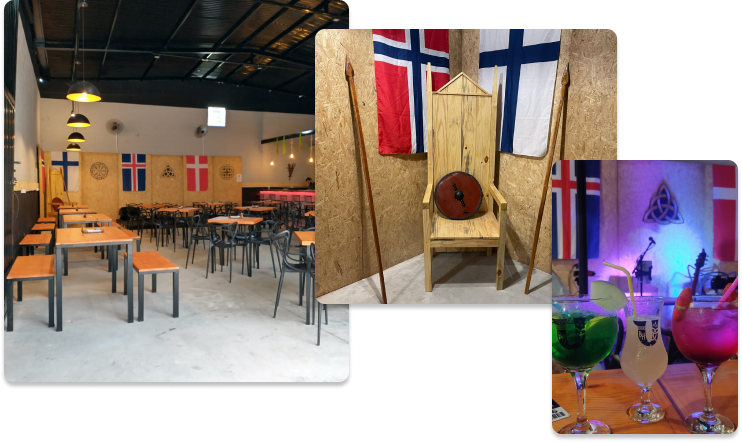
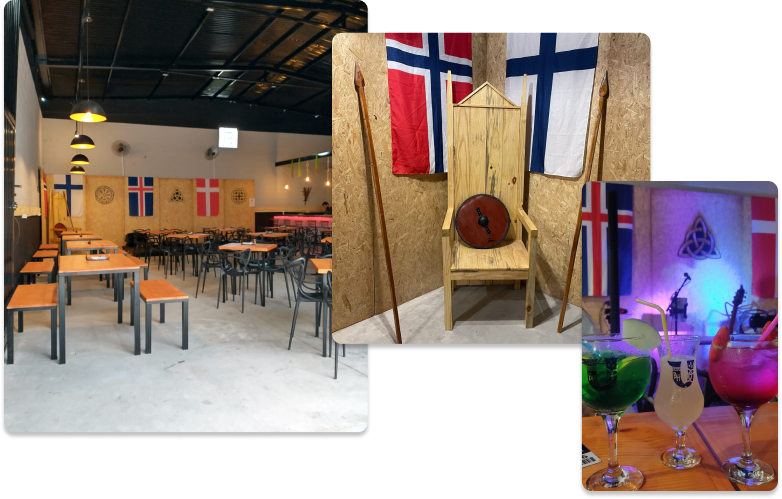
alterações

Changed region(s): [[0.0, 0.0, 1.0, 1.0], [0.093, 0.0, 0.124, 0.0588], [0.403, 0.7647, 0.434, 0.7941]]

diff --git a/src/app/home/home.component.html b/src/app/home/home.component.html
@@ -10,7 +10,7 @@
       <app-typography element="h2" text="Sobre nossa marca"></app-typography>
       <app-typography element="p" text="A CERVEJARIA UPPSALA é uma cervejaria inspirada na cultura nórdica (Viking). Uppsala era o templo sagrado para os vikings, o propósito da cervejaria é ser um lugar que proporcione encontros e experiências marcantes na vida dos guerreiros, como Uppsala era para os vikings."></app-typography><br>
       <app-typography element="p" text="
-      Que a CERVEJARIA UPPSALA seja um lugar para descontrair e apreciar boas cervejas e celebrar a VIDA! A CERVEJARIA terá um brinde de origem Viking. Ao brindar, eles repetiam a expressão &quot;SKAL&quot;, que significa amizade e novas conexões, na tradução literal é saúde e prosperidade. Então, um brinde aos nobres guerreiros, SKAL! &#x1F37B; &#x1F1E7;&#x1F1F7; &#x1F1F8;&#x1F1EA; &#x1F1EC;&#x1F1EC; &#x1F1F8;&#x1F1EF; &#x1F1E9;&#x1F1F0; &#x1F1E8;&#x1F1FF;"></app-typography>
+      Que a CERVEJARIA UPPSALA seja um lugar para descontrair e apreciar boas cervejas e celebrar a VIDA! A CERVEJARIA terá um brinde de origem Viking. Ao brindar, eles repetiam a expressão &quot;SKAL&quot;, que significa amizade e novas conexões, na tradução literal é saúde e prosperidade. Então, um brinde aos nobres guerreiros, SKAL!"></app-typography>
   </div>
 </section>
 <section class="drinks" id="drinks">
@@ -49,26 +49,35 @@
         </div>
       </div>
     </div>
+
   </div>
-  <app-typography element="p" text="Clique no copo para saber mais." class="click"></app-typography>
+  <div class="click">
+    <app-typography element="p" text="Clique no copo para saber mais." class="click"></app-typography>
+  </div>
 </section>
 <section class="hall" id="hall">
-  <div class="text">
-    <app-typography element="h2" text="Nosso salão"></app-typography>
-    <app-typography class="text" element="p" text="Nosso salão temático foi totalmente modelado para seu conforto e entertenimento, com um espaço amplo, comida boa e claro, com as melhores cervejas. Venham conhecer o espaço, temos certeza que irão gostar" id="p"></app-typography>
+  <div class="info">
+    <div class="text">
+      <div>
+        <app-typography element="h2" text="Nosso salão"></app-typography>
+      </div>
+      <div>
+        <app-typography element="p" text="Nosso salão temático foi totalmente modelado para seu conforto e entertenimento, com um espaço amplo, comida boa e claro, com as melhores cervejas. Venham conhecer o espaço, temos certeza que irão gostar" id="p"></app-typography>
+      </div>
+    </div>
+    <div>
+      <img src="../../assets/imgs/salaofotos.png" alt="Hall">
+    </div>
   </div>
-  <div>
-    <img src="../../assets/imgs/salaofotos.png" alt="Hall">
-  </div>
-</section>
-<section class="happy-hour">
-  <div>
-    <img src="../../assets/imgs/@cervejariauppsala 1.png" alt="Happy hour">
-  </div>
-  <div class="text">
-    <img src="../../assets/imgs/LOGOS FINAL_SEM RUIDO SELO 1.png" alt="Logo Uppsala">
-    <app-typography element="h2" text="O melhor happy hour da cidade"></app-typography>
-    <app-typography element="p" text="Descontos em bebidas, muita música e diversão, aqui você encontra o melhor happy hour de Manhuaçu !"></app-typography>
+  <div class="happy-hour">
+    <div>
+      <img src="../../assets/imgs/@cervejariauppsala 1.png" alt="Happy hour">
+    </div>
+    <div class="text">
+      <img src="../../assets/imgs/LOGOS FINAL_SEM RUIDO SELO 1.png" alt="Logo Uppsala">
+      <app-typography element="h2" text="O melhor happy hour da cidade"></app-typography>
+      <app-typography element="p" text="Descontos em bebidas, muita música e diversão, aqui você encontra o melhor happy hour de Manhuaçu !"></app-typography>
+    </div>
   </div>
 </section>
 <app-footer id="contact"></app-footer>

diff --git a/src/app/components/footer/footer.component.html b/src/app/components/footer/footer.component.html
@@ -1,7 +1,9 @@
 <footer>
   <section>
     <div>
-      <app-typography element="h3" text="Contato"></app-typography>
+      <div>
+        <app-typography element="h3" text="Contato"></app-typography>
+      </div>
       <ul>
         <li><i class="fa-solid fa-phone" style="color: green"></i><app-typography element="p" text="(31) 98232-3388 - Wesley"></app-typography></li>
 
@@ -13,13 +15,17 @@
       </ul>
     </div>
     <div>
-      <app-typography element="h3" text="Horario de atendimento"></app-typography>
+      <div>
+        <app-typography element="h3" text="Horario de atendimento"></app-typography>
+      </div>
       <app-typography element="p" text="Quarta a Sábado das 19:00 as 00:00"></app-typography>
       <app-typography element="p" text="Domingo das 13:00 as 21:00"></app-typography>
       <img src="../../../assets/imgs/LOGOS FINAL_SELO B 1.png" alt="Logo Uppsala">
     </div>
     <div>
-      <app-typography element="h3" text="Venha celebrar com a gente"></app-typography>
+      <div>
+        <app-typography element="h3" text="Venha celebrar com a gente"></app-typography>
+      </div>
       <div class="loc">
         <i class="fa-sharp fa-solid fa-map-pin" style="color: red;"></i><app-typography element="p" text="R. Geraldo Pereira, 395 - Pouso Alegre, Manhuaçu - MG, 36904-079"></app-typography>
       </div>

diff --git a/src/app/home/home.component.scss b/src/app/home/home.component.scss
@@ -47,7 +47,9 @@ section{
   }
 
   .click{
-    text-align: center;
+    font-weight: bolder;
+    margin-left: 150px;
+    align-items: end;
   }
 }
 
@@ -65,9 +67,11 @@ section{
 
 .beer-about{
   width: 500px;
+
   .beer-header{
     margin-top: -100px;
   }
+
   .beer-body{
     margin-top: 40px;
 
@@ -94,19 +98,23 @@ section{
 
 .hall{
   color: var(--secondary-color);
+}
+
+.info{
   display: flex;
   justify-content: space-between;
 
   .text{
-    max-width: 400px;
+    max-width: 350px;
+    margin-right: 50px;
+    div{
+      margin-top: 50px;
+    }
   }
-  img{
-    width: 100%;
-  }
+
 }
 
 .happy-hour{
-  color: var(--secondary-color);
   display: flex;
 
   img{
@@ -114,6 +122,7 @@ section{
   }
 
   .text{
+    margin-top: 50px;
     max-width: 300px;
   }
 }

diff --git a/src/app/components/footer/footer.component.scss b/src/app/components/footer/footer.component.scss
@@ -1,24 +1,40 @@
 section{
   display: flex;
   justify-content: space-between;
-  padding: 20px;
+  padding: 100px 50px;
+  text-align: left;
   width: 100%;
   background-color: #D9D9D9;
+
+  div{
+    margin-bottom: 10px;
+  }
 
   ul li{
     margin-top: 15px;
     display: flex;
+    padding: 5px;
     align-items: center;
+  }
+
+  i{
+    font-size: 24px;
+    margin-right: 10px;
   }
 
   .loc{
     display: flex;
-    max-width: 250px;
+    max-width: 300px;
   }
+}
+
+img{
+  margin-top: 50px;
 }
 
 .rights{
   color: rgba(0, 0, 0, 0.247);
+  padding: 0px 20px;
   div{
     display: flex;
     a{
@@ -29,7 +45,7 @@ section{
 }
 
 #map{
-  width: 100%;
-  height: 200px;
+  width: 450px;
+  height: 100%;
   text-align: end;
 }

diff --git a/src/app/components/footer/footer.component.ts b/src/app/components/footer/footer.component.ts
@@ -9,7 +9,6 @@ import { fromLonLat } from 'ol/proj';
 import { Vector as VectorLayer } from 'ol/layer';
 import { Vector as VectorSource } from 'ol/source';
 import { Style, Icon } from 'ol/style';
-import { Attribution } from 'ol/control';
 
 
 @Component({
